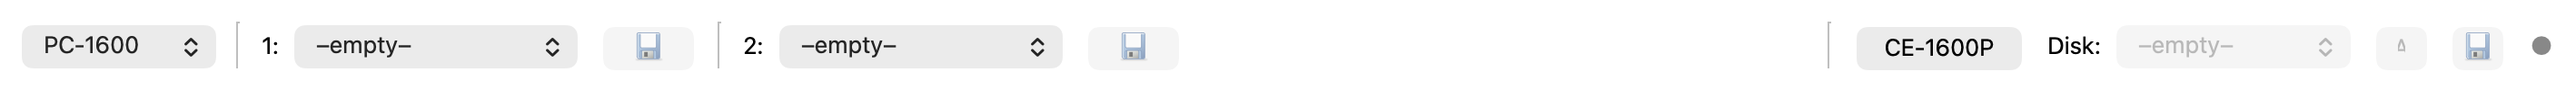
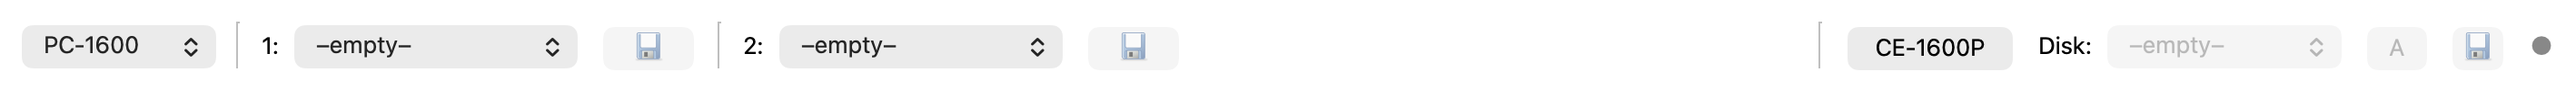
Floppy side button: wide enough for its letter on macOS
The fixed icon-sized width (28 px) left the A/B letter 4 px inside the
macOS push-button insets (12 px a side), so it was clipped. Size it to the
letter plus the style's own content inset, measured at the button's real
height (macOS picks a different size class at the default geometry);
never narrower than before, so Fusion/Linux keeps 28 px.

Changed region(s): [[0.7137, 0.39, 0.8688, 0.63], [0.8999, 0.54, 0.9309, 0.6], [0.8999, 0.45, 0.9309, 0.48]]

diff --git a/Qt6/app/ControlBar.cpp b/Qt6/app/ControlBar.cpp
@@ -9,6 +9,7 @@
 #include <QGuiApplication>
 #include <QSignalBlocker>
 #include <QStyle>
+#include <QStyleOptionButton>
 
 namespace {
 
@@ -154,9 +155,20 @@ ControlBar::ControlBar(QWidget* parent) : QWidget(parent) {
     m_floppySideButton->setFocusPolicy(Qt::NoFocus);
     m_floppySideButton->setToolTip(tr("Eject and turn the disk over"));
     m_floppySideButton->setObjectName(QStringLiteral("controlbar.floppy.side"));
-    // Compact: one letter / one icon, so no wider than the diskette symbol.
+    // Compact: one letter / one icon, so no wider than the diskette symbol --
+    // unless the style insets a button's text further than that (macOS: 12 px
+    // a side, which clipped the letter), so the letter itself still fits.
     const int compactWidth = m_floppySideButton->iconSize().width() + 12;
-    m_floppySideButton->setFixedWidth(compactWidth);
+    QStyleOptionButton sideOption;
+    sideOption.initFrom(m_floppySideButton);
+    // The real size, not the not-yet-laid-out default: macOS picks its inset by button size.
+    sideOption.rect.setSize({compactWidth, m_floppySideButton->sizeHint().height()});
+    const int textInset =
+        sideOption.rect.width() -
+        style()->subElementRect(QStyle::SE_PushButtonContents, &sideOption, m_floppySideButton).width();
+    const QFontMetrics metrics = m_floppySideButton->fontMetrics();
+    const int letterWidth = qMax(metrics.horizontalAdvance(tr("A")), metrics.horizontalAdvance(tr("B")));
+    m_floppySideButton->setFixedWidth(qMax(compactWidth, letterWidth + textInset));
     layout->addWidget(m_floppySideButton);
 
     m_floppySaveButton = new QPushButton(this);
